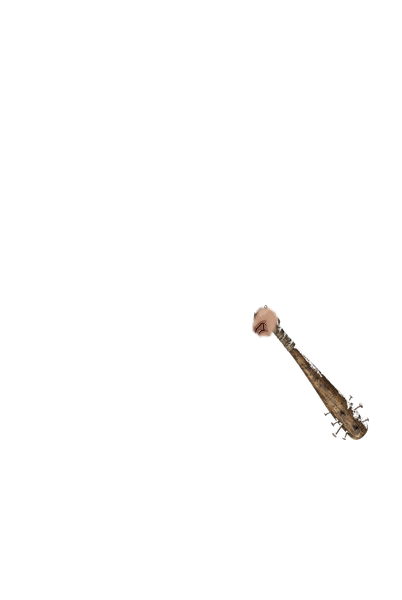
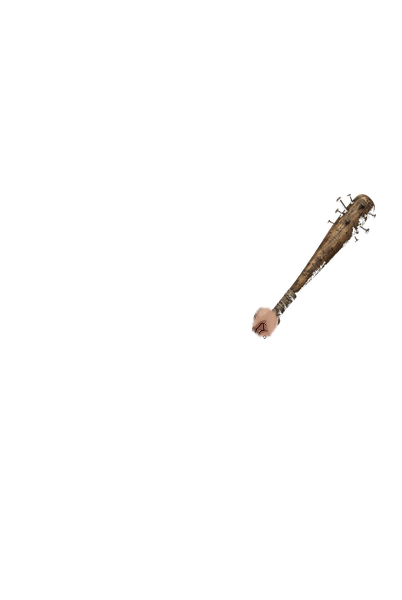
Adjust bat pose and knuckle hand sprite

Changed region(s): [[0.6567, 0.3, 0.9552, 0.75]]

diff --git a/src/panels/Boss.tsx b/src/panels/Boss.tsx
@@ -1,3 +1,4 @@
+import { characterSpritePath } from '../game/heldWeapon';
 import { HeldWeapon } from '../components/HeldWeapon';
 import { ClothingLayers } from '../components/ClothingLayers';
 import { ResourceIcon, ResourceText } from '../components/ResourceIcon';
@@ -113,7 +114,7 @@ export const BossFightPanel = () => {
       <header className={styles.header}><span className={styles.lamp} aria-hidden="true" /><div><small>АРЕНА · ЖЕРТВА МЕМОВ</small><h2>⚔ {battle.bossName}</h2></div><button type="button" onClick={close} aria-label={isActive ? 'Выйти, не останавливая бой' : 'Закрыть итоги'}>{isActive ? 'ВЫЙТИ' : '✕'}</button></header>
       <div className={styles.wallet}><span>❤ HP {battle.playerHp}/{battle.playerMaxHp}</span><span><ResourceIcon name="energy" /> Энергия заданий {state.energy}</span><span><ResourceIcon name="bullets" /> Пули {state.bullets}</span><span><ResourceIcon name="tokens" /> Жетоны {state.zhetons}</span><span><ResourceIcon name="premium" /> Премиум {state.premiumGold}</span></div>
       <div className={styles.arena}>
-        <div><div className={styles.playerPortrait}><div className={styles.characterSprite}><img className={styles.characterImage} src="/pers1.png" alt="Ваш персонаж" /><ClothingLayers equipmentIds={state.equipmentIds} className={styles.clothingOverlay} />{state.equipmentIds.includes('shop_cap') && <img className={styles.capOverlay} src="/characters/survivor-cap-v2.png" alt="" />}<HeldWeapon weaponId={state.weapon.id} className={styles.clothingOverlay} /></div></div><span className={styles.energyLabel}><ResourceIcon name="energy" /> {battle.bossEnergy ?? 0}/{BOSS_ENERGY_MAX}</span><progress className={styles.bossEnergy} max={BOSS_ENERGY_MAX} value={battle.bossEnergy ?? 0} aria-label="Боевая энергия" /><strong>{state.playerName || 'Выживший'}</strong><progress max={battle.playerMaxHp} value={battle.playerHp} aria-label="HP игрока" /></div>
+        <div><div className={styles.playerPortrait}><div className={styles.characterSprite}><img className={styles.characterImage} src={characterSpritePath(state.weapon.id)} alt="Ваш персонаж" /><ClothingLayers equipmentIds={state.equipmentIds} className={styles.clothingOverlay} />{state.equipmentIds.includes('shop_cap') && <img className={styles.capOverlay} src="/characters/survivor-cap-v2.png" alt="" />}<HeldWeapon weaponId={state.weapon.id} className={styles.clothingOverlay} /></div></div><span className={styles.energyLabel}><ResourceIcon name="energy" /> {battle.bossEnergy ?? 0}/{BOSS_ENERGY_MAX}</span><progress className={styles.bossEnergy} max={BOSS_ENERGY_MAX} value={battle.bossEnergy ?? 0} aria-label="Боевая энергия" /><strong>{state.playerName || 'Выживший'}</strong><progress max={battle.playerMaxHp} value={battle.playerHp} aria-label="HP игрока" /></div>
         <div className={styles.arenaStatus}><span className={styles.timer}>{battle.coopEncounterId ? `СОВМЕСТНЫЙ БОЙ · УЧАСТНИКОВ: ${battle.coopParticipants ?? 0}` : 'БЕЗ ЛИМИТА ВРЕМЕНИ'}</span>{enraged && <strong className={styles.rageBadge} role="status">🔥 ЯРОСТЬ</strong>}<span>УРОН: {battle.damageDealt}</span><span>СЕРИЯ ×{battle.comboStreak}</span>{battle.blocking && <span>🛡 Блок активен</span>}{!battle.coopEncounterId && <><span>Комната: {Math.round(chance * 100)}% / 50%</span><progress max={50} value={chance * 100} aria-label="Шанс выпадения комнаты" /></>}{battle.lastHit && <strong key={`${battle.turn}-${battle.lastSkillId}`} className={styles.damage}>−{battle.lastHit.damage}</strong>}</div>
         <div><div data-tutorial-target="boss-rage" className={`${styles.enemyStage} ${enraged ? styles.enraged : ''}`}><img className={styles.enemyFull} src={enraged ? bossArt.enraged : bossArt.normal} alt={`${battle.bossName}, ${enraged ? 'фаза ярости' : 'обычная фаза'}`} /></div><strong>{battle.bossName} · {battle.bossHp}/{battle.bossMaxHp} HP</strong><progress max={battle.bossMaxHp} value={battle.bossHp} aria-label="HP босса" /></div>
       </div>

diff --git a/src/panels/Arena.tsx b/src/panels/Arena.tsx
@@ -1,3 +1,4 @@
+import { characterSpritePath } from '../game/heldWeapon';
 import { HeldWeapon } from '../components/HeldWeapon';
 import { ClothingLayers } from '../components/ClothingLayers';
 import { ResourceIcon, ResourceText } from '../components/ResourceIcon';
@@ -39,7 +40,7 @@ export const Arena = ({ onClose }: { onClose: () => void }) => {
         </article>)}</div>
       </> : <>
         <div className={styles.arena}>
-          <div><div className={styles.playerPortrait}><div className={styles.characterSprite}><img className={styles.characterImage} src="/pers1.png" alt="Ваш персонаж" /><ClothingLayers equipmentIds={state.equipmentIds} className={styles.clothingOverlay} />{state.equipmentIds.includes('shop_cap') && <img className={styles.capOverlay} src="/characters/survivor-cap-v2.png" alt="" />}<HeldWeapon weaponId={state.weapon.id} className={styles.clothingOverlay} /></div></div><strong>{state.playerName || 'Выживший'}</strong><span>❤ {battle.playerHp}/{battle.playerMaxHp}</span><progress max={battle.playerMaxHp} value={battle.playerHp} aria-label="Ваше здоровье"/><span className={styles.energyLabel}><ResourceIcon name="energy" /> {battle.energy}/{BOSS_ENERGY_MAX}</span><progress className={styles.bossEnergy} max={BOSS_ENERGY_MAX} value={battle.energy} aria-label="Боевая энергия" /></div>
+          <div><div className={styles.playerPortrait}><div className={styles.characterSprite}><img className={styles.characterImage} src={characterSpritePath(state.weapon.id)} alt="Ваш персонаж" /><ClothingLayers equipmentIds={state.equipmentIds} className={styles.clothingOverlay} />{state.equipmentIds.includes('shop_cap') && <img className={styles.capOverlay} src="/characters/survivor-cap-v2.png" alt="" />}<HeldWeapon weaponId={state.weapon.id} className={styles.clothingOverlay} /></div></div><strong>{state.playerName || 'Выживший'}</strong><span>❤ {battle.playerHp}/{battle.playerMaxHp}</span><progress max={battle.playerMaxHp} value={battle.playerHp} aria-label="Ваше здоровье"/><span className={styles.energyLabel}><ResourceIcon name="energy" /> {battle.energy}/{BOSS_ENERGY_MAX}</span><progress className={styles.bossEnergy} max={BOSS_ENERGY_MAX} value={battle.energy} aria-label="Боевая энергия" /></div>
           <div className={styles.arenaStatus}><strong>ПРОТИВ БОТА</strong>{enraged && <strong className={styles.rageBadge} role="status">🔥 ЯРОСТЬ</strong>}<span>Ход {battle.turn}</span><span>Каждое действие вызывает ответ противника.</span></div>
           <div><div className={`${styles.enemyStage} ${enraged ? styles.enraged : ''}`}><img className={styles.enemyFull} src={enraged ? getArenaArt(battle.opponentId).enraged : getArenaArt(battle.opponentId).normal} alt={`${battle.opponentName}, ${enraged ? 'фаза ярости' : 'обычная фаза'}`} /></div><strong>{battle.opponentName}</strong><span>❤ {battle.opponentHp}/{battle.opponentMaxHp}</span><progress max={battle.opponentMaxHp} value={battle.opponentHp} aria-label="Здоровье противника" /></div>
         </div>

diff --git a/src/panels/SurvivorProfile.tsx b/src/panels/SurvivorProfile.tsx
@@ -1,3 +1,4 @@
+import { characterSpritePath } from '../game/heldWeapon';
 import { HeldWeapon } from '../components/HeldWeapon';
 import { WeaponImage } from '../components/WeaponImage';
 import { ClothingLayers } from '../components/ClothingLayers';
@@ -50,7 +51,7 @@ export const SurvivorProfile = ({ onClose, onWorkshop, onBosses, onInventory, on
       </div>
       {tab === 'file' ? <div className={styles.content} role="tabpanel">
         <div className={styles.hero}>
-          <div className={styles.portrait}><span className={styles.portraitLabel}>ЛИЧНОЕ ДЕЛО / 01</span>{vkUser?.photo_200 ? <img src={vkUser.photo_200} alt="Аватар VK" /> : <span className={styles.characterPortrait}><img className={styles.characterImage} src="/pers1.png" alt="Персонаж выжившего" /><ClothingLayers equipmentIds={state.equipmentIds} className={styles.clothingOverlay} />{state.equipmentIds.includes('shop_cap') && <img className={styles.capOverlay} src="/characters/survivor-cap-v2.png" alt="" />}<HeldWeapon weaponId={state.weapon.id} className={styles.clothingOverlay} /></span>}<span className={styles.portraitFooter}>ПОСЛЕДНИЙ РУБЕЖ</span></div>
+          <div className={styles.portrait}><span className={styles.portraitLabel}>ЛИЧНОЕ ДЕЛО / 01</span>{vkUser?.photo_200 ? <img src={vkUser.photo_200} alt="Аватар VK" /> : <span className={styles.characterPortrait}><img className={styles.characterImage} src={characterSpritePath(state.weapon.id)} alt="Персонаж выжившего" /><ClothingLayers equipmentIds={state.equipmentIds} className={styles.clothingOverlay} />{state.equipmentIds.includes('shop_cap') && <img className={styles.capOverlay} src="/characters/survivor-cap-v2.png" alt="" />}<HeldWeapon weaponId={state.weapon.id} className={styles.clothingOverlay} /></span>}<span className={styles.portraitFooter}>ПОСЛЕДНИЙ РУБЕЖ</span></div>
           <div className={styles.identity}>
             <span className={styles.sectionLabel}>● СТАТУС: ВЫЖИВШИЙ</span><h3>{name}</h3>{badge && <span className={styles.sectionLabel}>{badge.icon} {badge.name}</span>}
             <div className={styles.tags}><span>УРОВЕНЬ {format(state.level)}</span><span>★ {format(state.experience)} ОПЫТА</span></div>

diff --git a/src/components/FallenCanvas/FallenCanvas.tsx b/src/components/FallenCanvas/FallenCanvas.tsx
@@ -1,4 +1,4 @@
-import { heldWeaponPath } from '../../game/heldWeapon';
+import { characterSpritePath, heldWeaponPath } from '../../game/heldWeapon';
 import { clothingVisualPath, equippedClothingVisuals } from '../../game/clothingVisuals';
 import React, { useState, useEffect, useCallback } from "react";
 import styles from "../../style/PrisonCanvas/PrisonCanvas.module.scss";
@@ -225,16 +225,19 @@ export const FallenCanvas: React.FC<PrisonCanvasProps & {
   useEffect(() => {
     const bgFile = resolveBackground(state.currentLocation, state.selectedSkins, state.unlockedRooms);
     const bgImg = new Image();
-    const charImg = new Image();
-
     bgImg.onload = () => setBackgroundImage(bgImg);
     bgImg.onerror = () => setBackgroundImage(null);
     bgImg.src = `/${bgFile}`;
+    return () => { bgImg.onload = null; bgImg.onerror = null; };
+  }, [state.currentLocation, state.selectedSkins, state.unlockedRooms]);
 
+  useEffect(() => {
+    const charImg = new Image();
     charImg.onload = () => setCharacterImage(charImg);
     charImg.onerror = () => setCharacterImage(null);
-    charImg.src = '/pers1.png';
-  }, [state.currentLocation, state.selectedSkins, state.unlockedRooms]);
+    charImg.src = characterSpritePath(state.weapon.id);
+    return () => { charImg.onload = null; charImg.onerror = null; };
+  }, [state.weapon.id]);
 
   // Загружаем карту
   useEffect(() => {

diff --git a/src/game/heldWeapon.ts b/src/game/heldWeapon.ts
@@ -8,3 +8,7 @@ const ids = [
 ] as const;
 export const heldWeaponPath = (id: string): string | undefined =>
   ids.some(known => known === id) ? `/characters/weapons/${id}.png` : undefined;
+
+// Кастет использует отдельную кисть; для остальных видов исходный персонаж не меняется.
+export const characterSpritePath = (weaponId: string): string =>
+  weaponId === 'shop_knuckles' ? '/characters/survivor-no-right-hand.png' : '/pers1.png';
